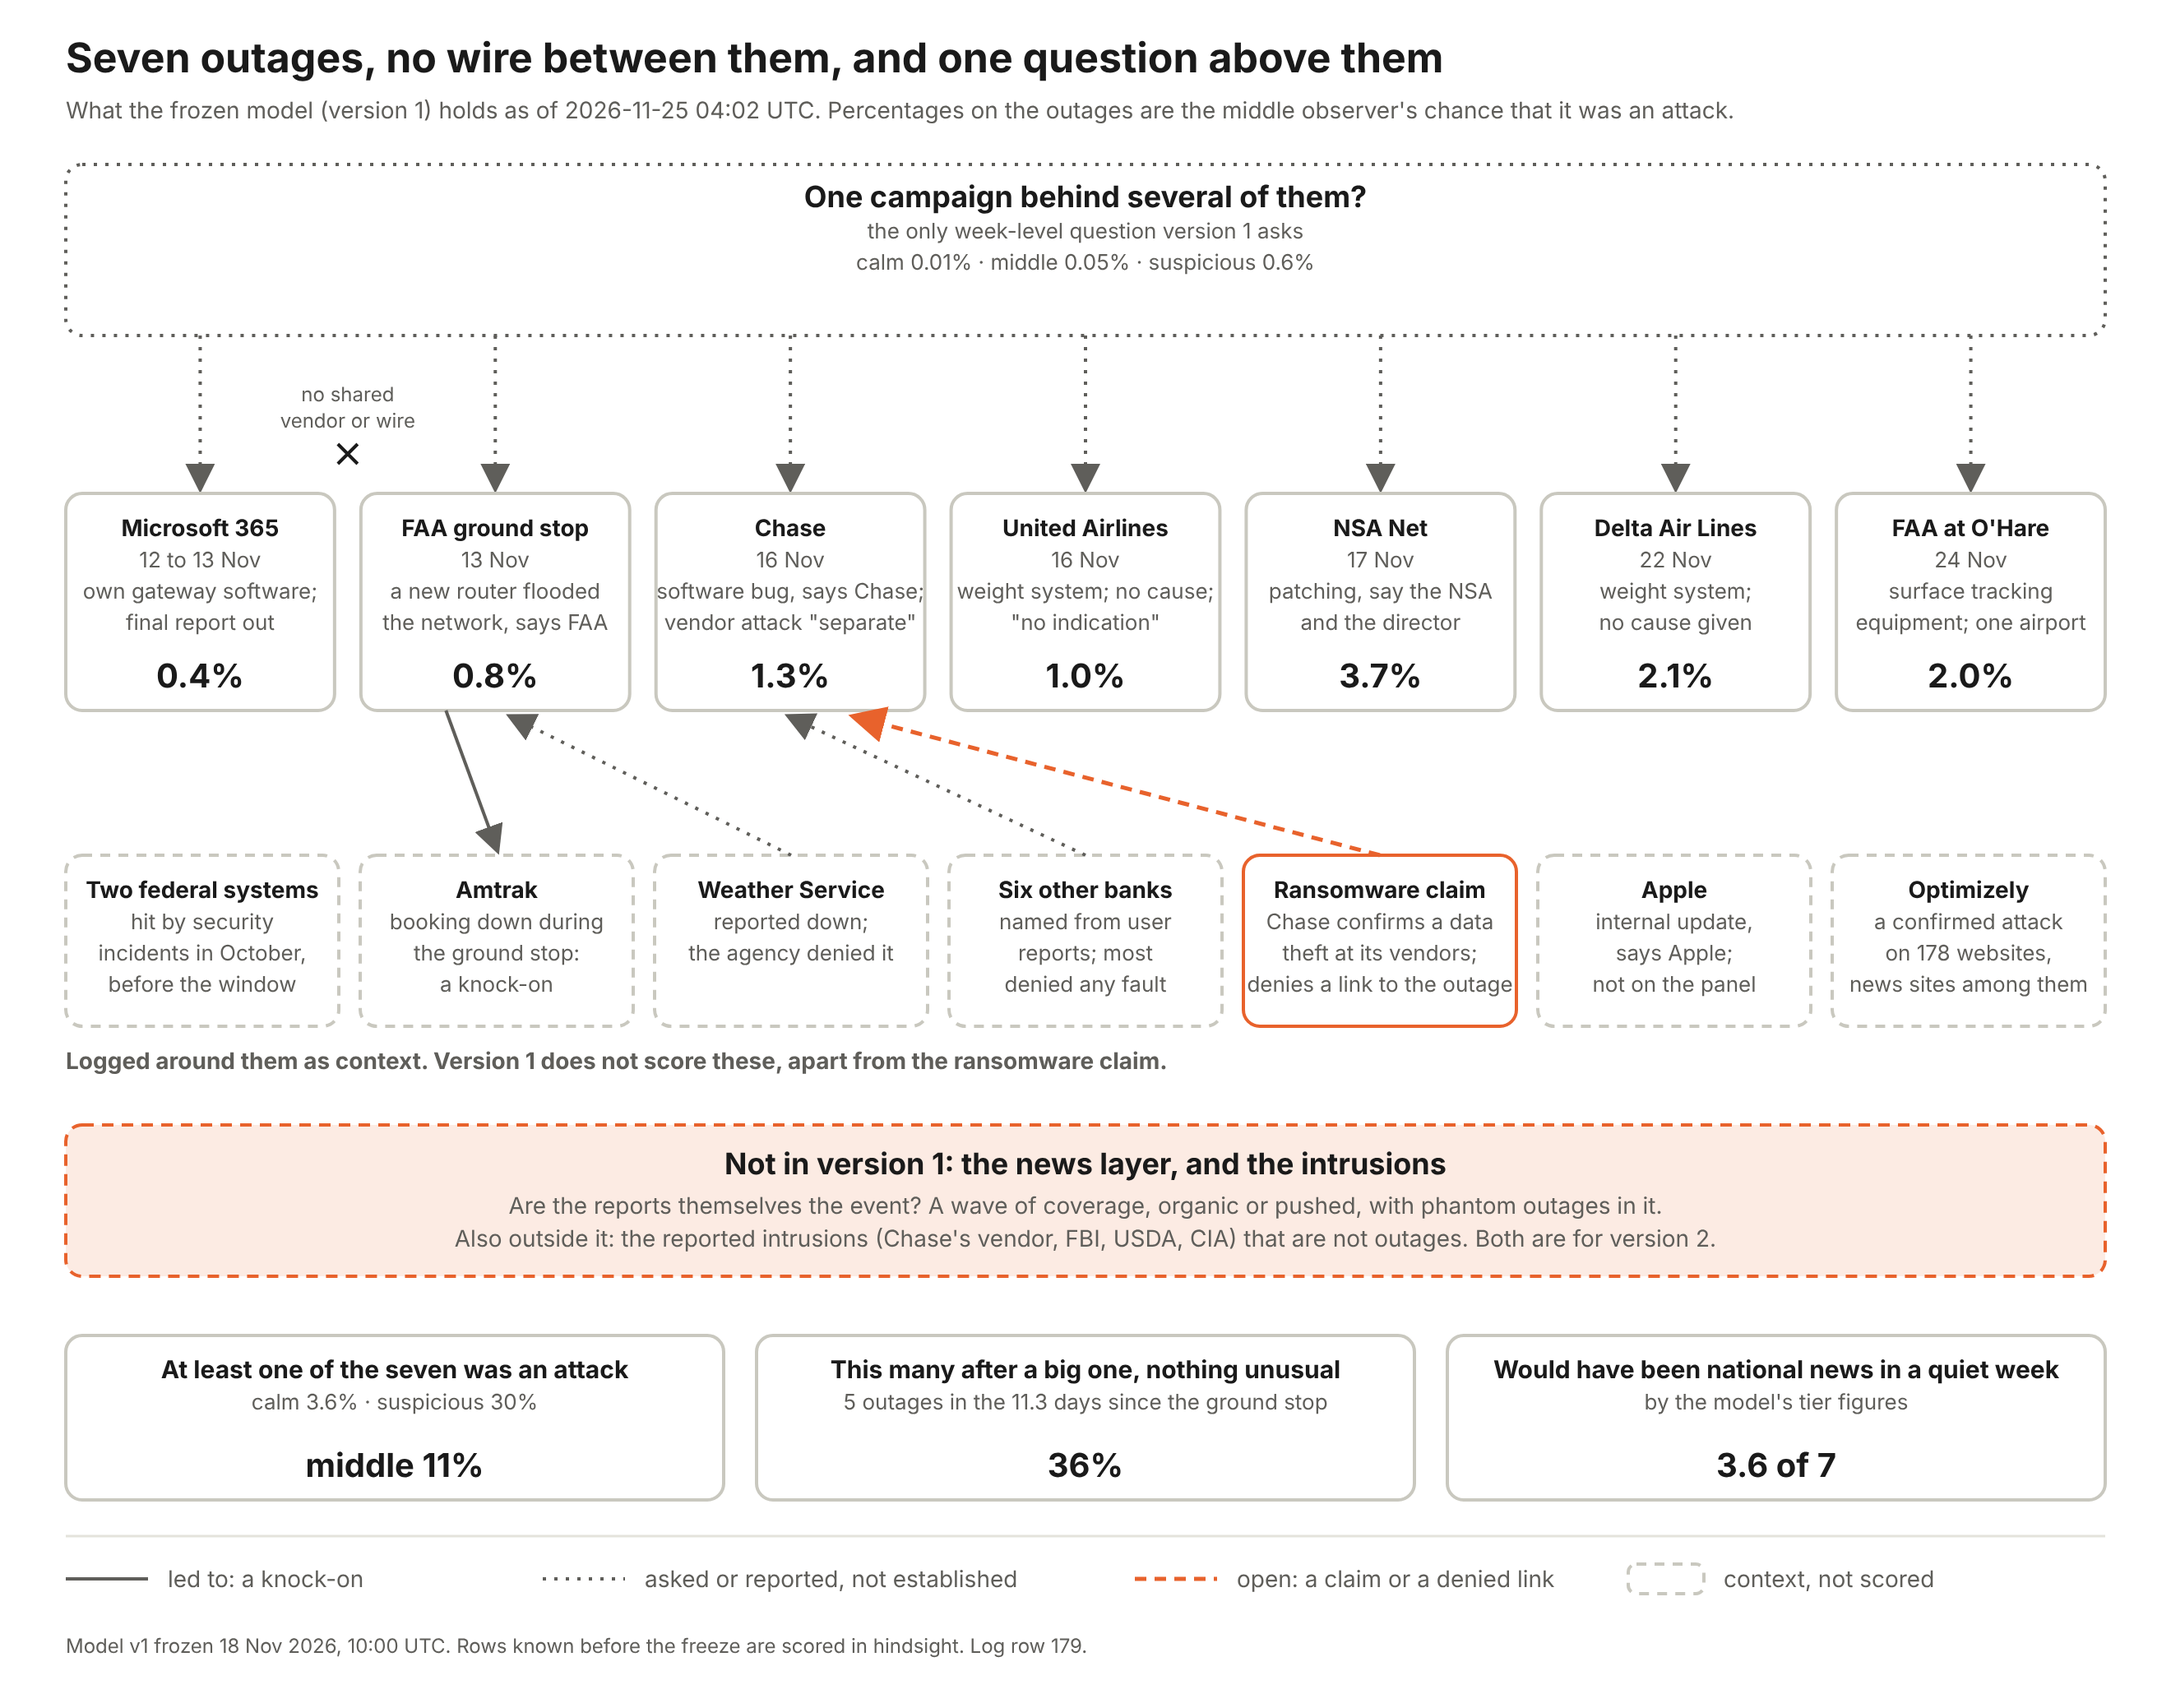
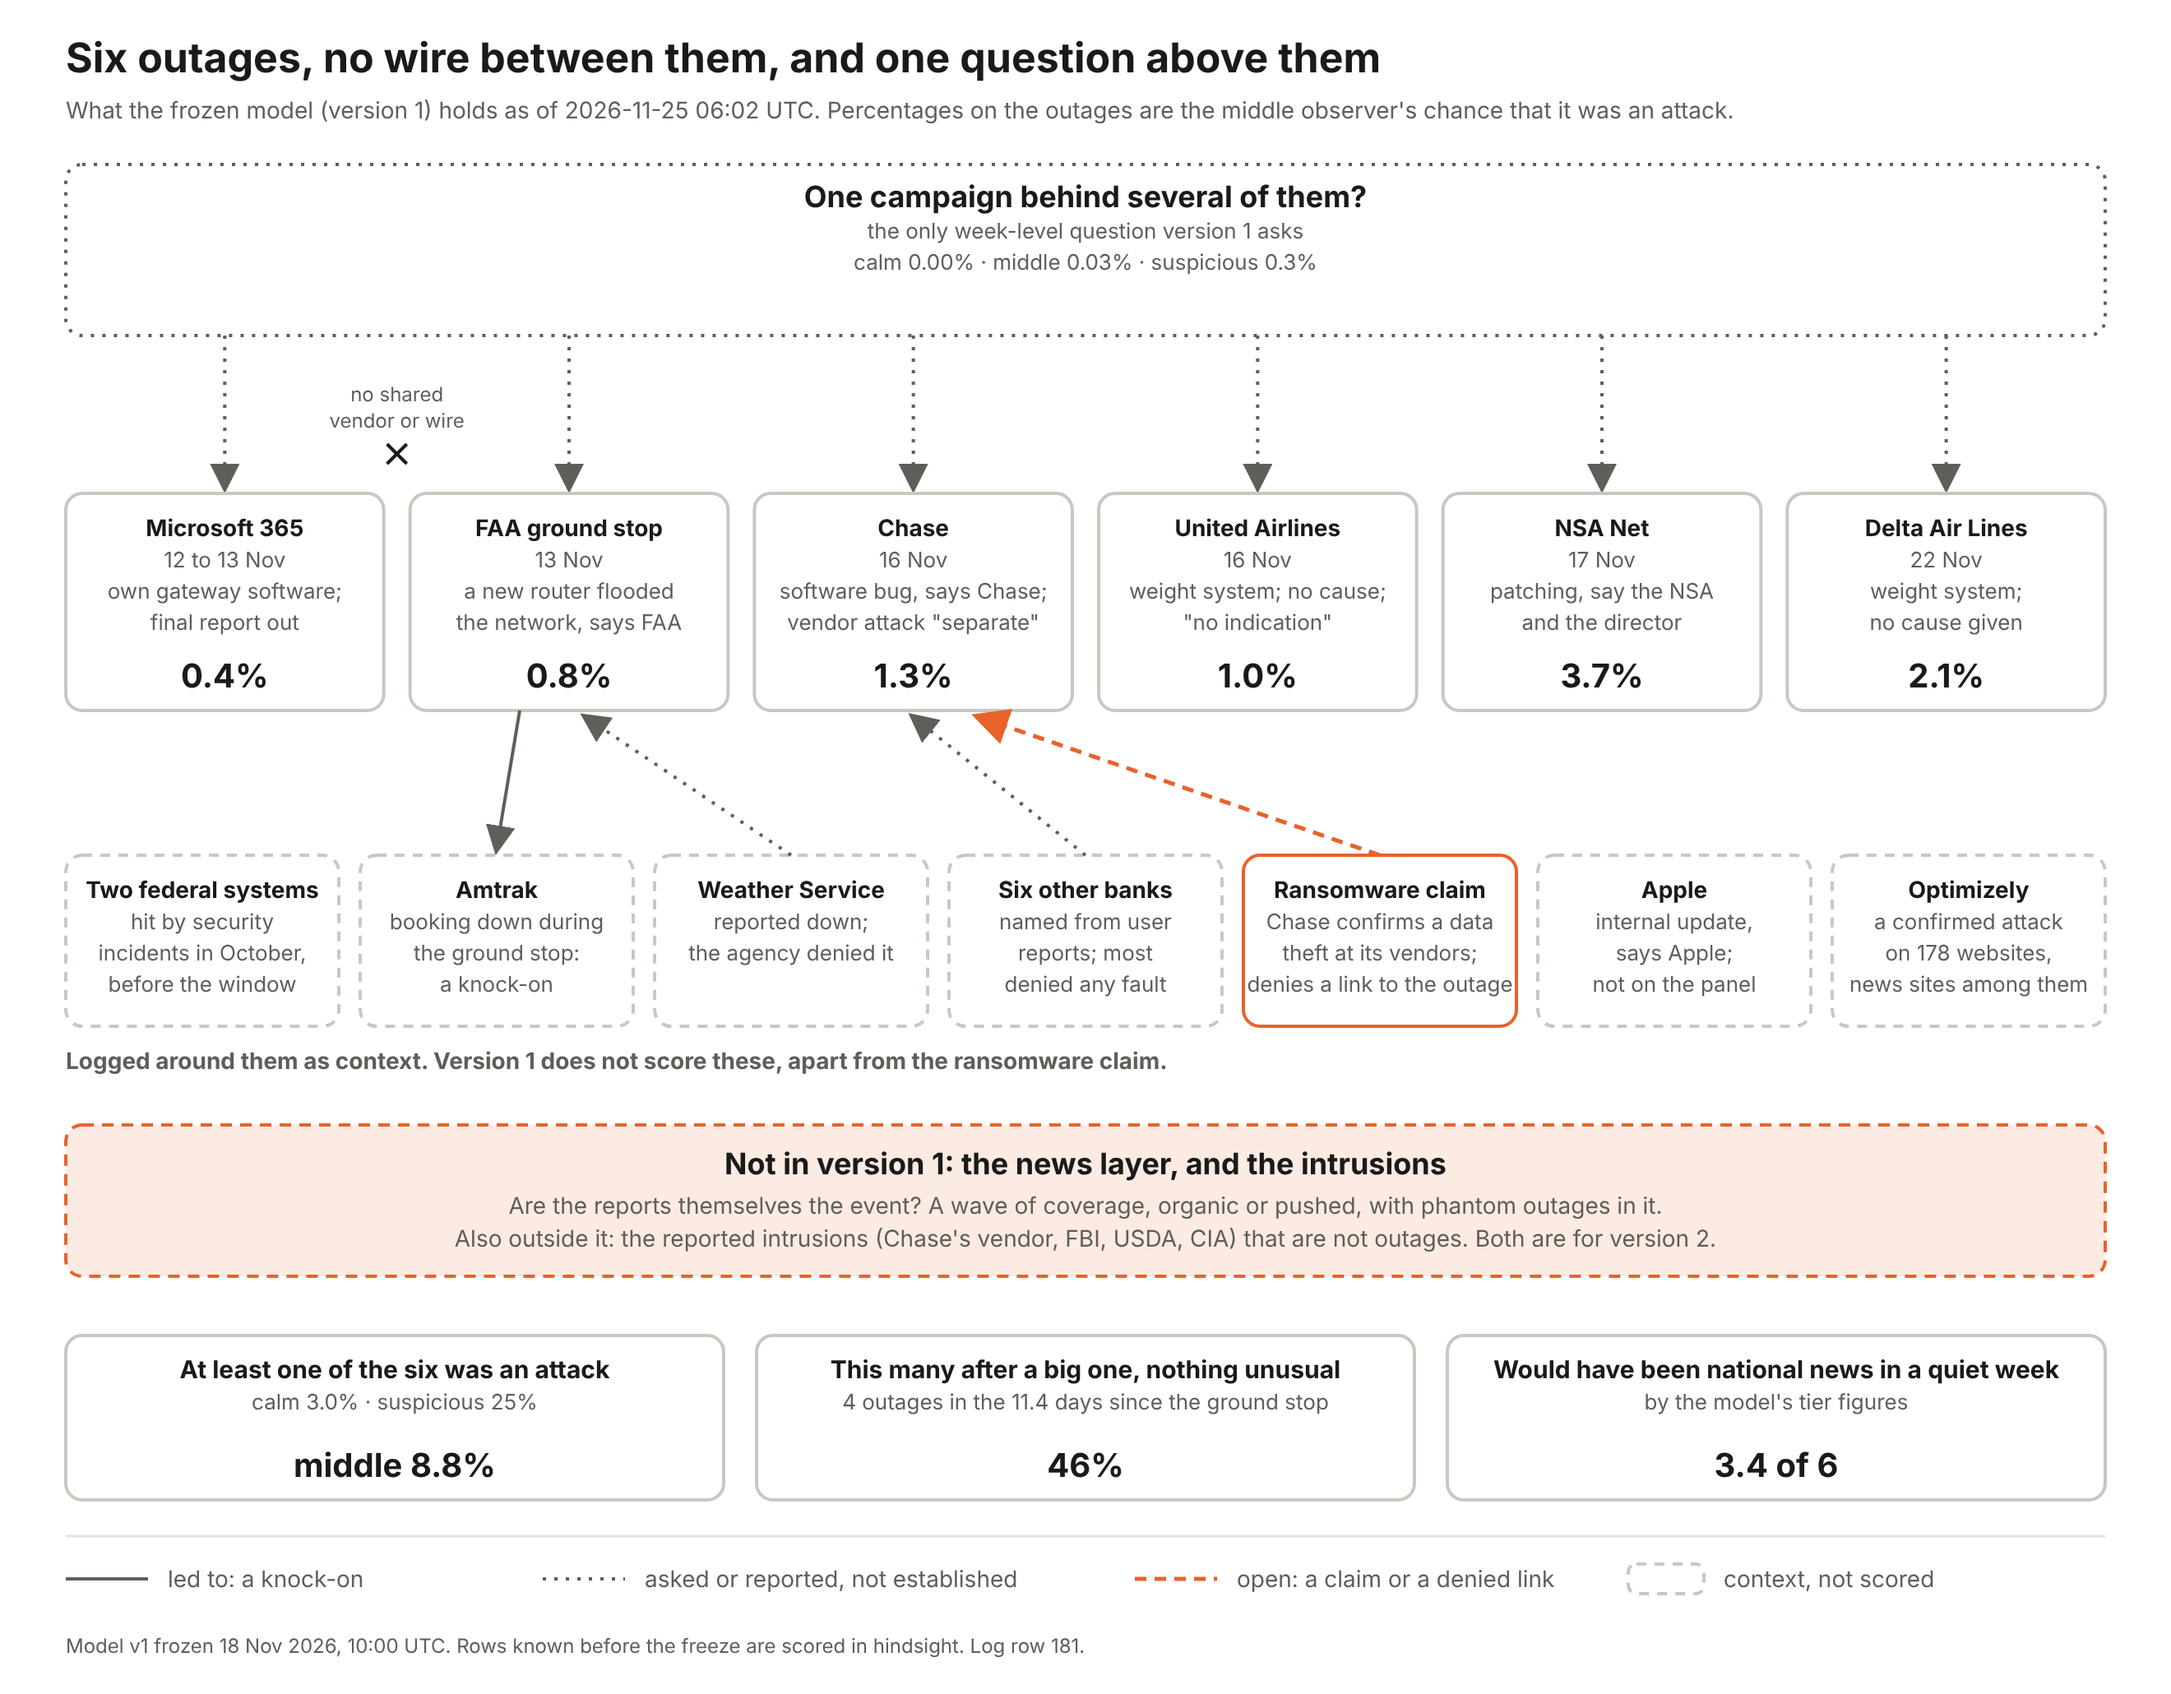
Log run, 25 Nov 06:03 UTC: correction, O'Hare event uncounted over disputed duration
Claude-Session: https://claude.ai/code/session_01U66CedgGautdadz1gh9HFi

diff --git a/scripts/draw_state.py b/scripts/draw_state.py
@@ -59,7 +59,7 @@ def line(x1, y1, x2, y2, stroke=GREY, dash="2 5", arrow=True, width=2):
 
 
 W, H = 1320, 1030
-text(40, 44, "Seven outages, no wire between them, and one question above them", 25, 700, INK, "start")
+text(40, 44, "Six outages, no wire between them, and one question above them", 25, 700, INK, "start")
 text(40, 72, f"What the frozen model (version 1) holds as of {last['as_of'].replace('T', ' ').replace('Z', ' UTC')}. "
      "Percentages on the outages are the middle observer's chance that it was an attack.", 14, 400, GREY, "start")
 
@@ -74,8 +74,7 @@ E = [("ms365-nov12", "Microsoft 365", "12 to 13 Nov", ["own gateway software;", 
      ("chase-nov16", "Chase", "16 Nov", ["software bug, says Chase;", "vendor attack \"separate\""]),
      ("united-nov16", "United Airlines", "16 Nov", ["weight system; no cause;", "\"no indication\""]),
      ("nsanet-nov17", "NSA Net", "17 Nov", ["patching, say the NSA", "and the director"]),
-     ("delta-nov22", "Delta Air Lines", "22 Nov", ["weight system;", "no cause given"]),
-     ("faa-ohare-nov24", "FAA at O'Hare", "24 Nov", ["surface tracking", "equipment; one airport"])]
+     ("delta-nov22", "Delta Air Lines", "22 Nov", ["weight system;", "no cause given"])]
 cx = []
 for i, (eid, name, when, lines) in enumerate(E):
     bw = (1240 - 16 * (len(E) - 1)) / len(E)
@@ -118,7 +117,7 @@ text(660, 738, "Are the reports themselves the event? A wave of coverage, organi
 text(660, 758, "Also outside it: the reported intrusions (Chase's vendor, FBI, USDA, CIA) that are not outages. Both are for version 2.", 14, 400, GREY)
 
 # outputs
-O = [("At least one of the seven was an attack",
+O = [("At least one of the six was an attack",
       [f"calm {pct(last['p_any_attack_calm'])}  ·  suspicious {pct(last['p_any_attack_suspicious'])}"],
       "middle " + pct(last["p_any_attack_middle"])),
      ("This many after a big one, nothing unusual",

diff --git a/HANDOFF.md b/HANDOFF.md
@@ -90,7 +90,8 @@ Status as of Saturday, 14 November 2026.
 - 24 Nov 22:02 UTC. No new panel outage. Clayton declines to explain the FBI and USDA incidents ('in due course') while repeating that the outages are maintenance. P(campaign): 0.00%, 0.02%, 0.2%. P(at least one attack): 2.3%, 6.9%, 21%.
 - 25 Nov 00:03 UTC. **A sixth counted outage: Delta, Sunday 22 November**, weight-and-balance system, Atlanta ground stop, no cause given (event row 167; missed for three days; the same function failed at United on the 16th). **A CIA unclassified system and the intelligence director's office reported breached** (24 November, AP and Washington Post; context row 168, not scored). TikTok down on the 24th (off panel). P(campaign): 0.00%, 0.03%, 0.3%. P(at least one attack): 3.0%, 8.9%, 26%. These still exclude every intrusion.
 - 25 Nov 02:02 UTC. No new panel outage. CIA and ODNI breach: four sources to CNN; officials say unclassified only and resolved; not tied to the FBI intrusion. Delta: still no cause, no word on a shared vendor with United. P(campaign): 0.00%, 0.03%, 0.3%. P(at least one attack): 3.0%, 8.9%, 26%.
-- 25 Nov 04:03 UTC. **A seventh counted outage: an FAA equipment outage at Chicago O'Hare on 24 November**, arrivals stopped for about 90 minutes, said by the FAA to be specific to that airport (event row 176). Lead: one aggregator relays unnamed suspicion that the CIA breach used the Artex tool; not an attribution. P(campaign): 0.01%, 0.05%, 0.6%. P(at least one attack): 3.6%, 11%, 30%. Five outages in the 11.3 days since the ground stop: a 36% event with nothing unusual.
+- 25 Nov 04:03 UTC. **A seventh counted outage: an FAA equipment outage at Chicago O'Hare on 24 November**, arrivals stopped for about 90 minutes, said by the FAA to be specific to that airport (event row 177). Lead: one aggregator relays unnamed suspicion that the CIA breach used the Artex tool; not an attribution. P(campaign): 0.01%, 0.05%, 0.6%. P(at least one attack): 3.6%, 11%, 30%. Five outages in the 11.3 days since the ground stop: a 36% event with nothing unusual.
+- 25 Nov 06:03 UTC. **Correction: the O'Hare event is uncounted again.** CNN's source puts the equipment outage at about 25 minutes, under the 30-minute rule; Fox had about 90. Duration disputed, so uncounted by a correction row, like AWS and the IRS. Counting it two hours earlier on one outlet's figure was the session's error. Back to six counted outages, four since the ground stop. No new panel outage. P(campaign): 0.00%, 0.03%, 0.3%. P(at least one attack): 3.0%, 8.8%, 25%.
 
 ## Task waiting for a Claude Code session (written 17 November 2026, 16:50 Pacific)
 
